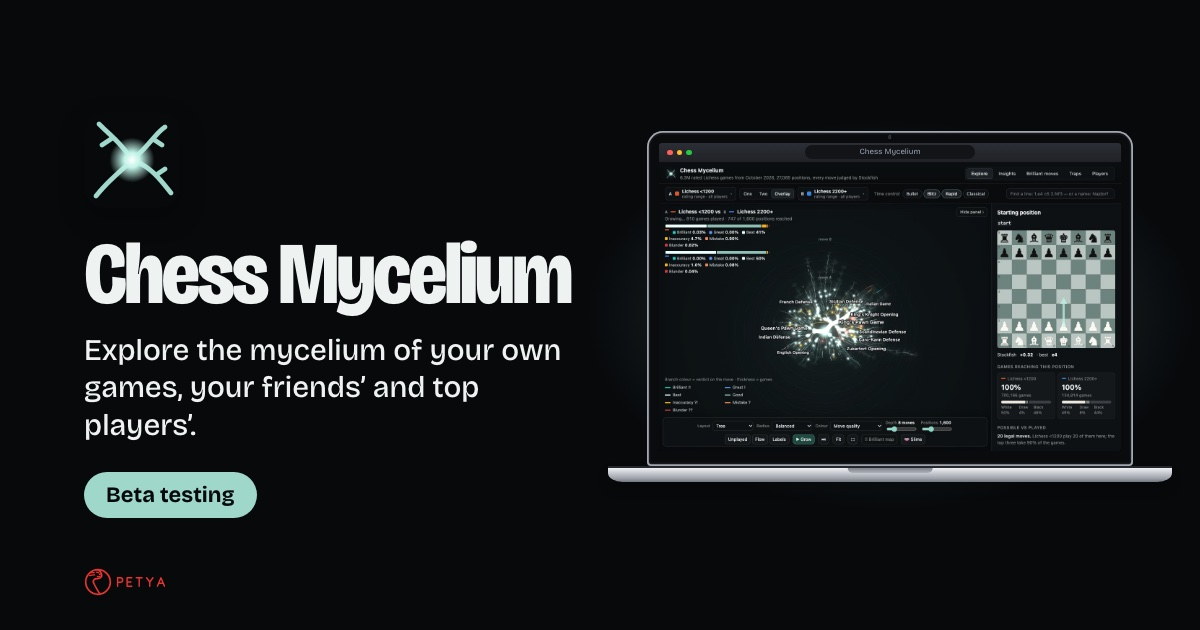
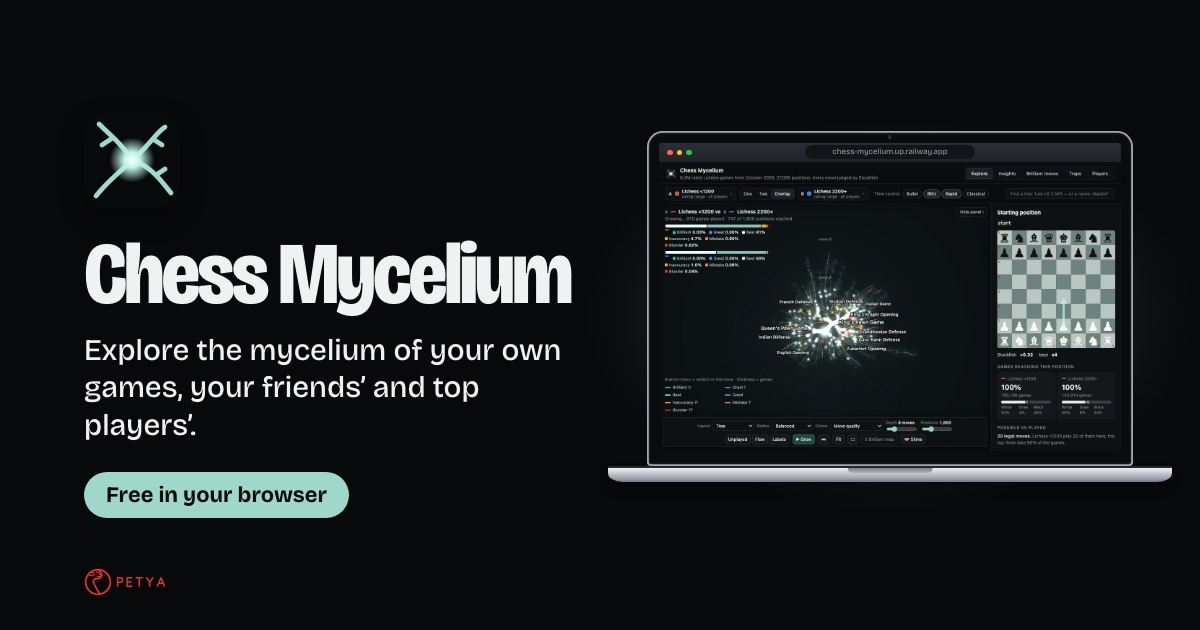
Shelf layout for browser games, hearts everywhere, Chess Mycelium live
- Browser games are now separate store-style cards on a grid shelf
- "On your iPhone" / "On your computer" shelf headings
- Like buttons on every game, home and game pages
- Pocket Cosmo: now available worldwide (badge + note)
- Chess Mycelium is public: Open button, URL, share card restored

diff --git a/index.html b/index.html
@@ -23,7 +23,7 @@
 <link rel="preconnect" href="https://fonts.googleapis.com">
 <link rel="preconnect" href="https://fonts.gstatic.com" crossorigin>
 <link rel="stylesheet" href="https://fonts.googleapis.com/css2?family=Bricolage+Grotesque:opsz,wdth,wght@12..96,75..100,400..800&display=swap">
-<link rel="stylesheet" href="/assets/site.css?v=ac8dccbfa4">
+<link rel="stylesheet" href="/assets/site.css?v=b26a6030a0">
 <script>(() => {
   const query = new URLSearchParams(location.search);
   const off = query.has("notrack");
@@ -53,7 +53,8 @@
     <p class="intro__line">We make small games and simulations.</p>
   </header>
   <main class="wrap">
-    <section class="library" aria-label="Games and simulations">
+    <h2 class="shelf-title" id="phone-title">On your iPhone</h2>
+    <section class="library" aria-labelledby="phone-title">
       <article class="tile" style="--accent: #ff4d8d">
         <a class="tile__link" href="/games/drift-survivors/">
           <div class="tile__stage"><div class="phone-wrap" data-home-of="drift-survivors"><div class="phone" data-game="drift-survivors" style="view-transition-name: phone-drift-survivors"><div class="phone__screen"><video data-loop muted playsinline loop preload="metadata" poster="/media/drift-survivors/poster.jpg?v=1bc68dae90" data-still="/media/drift-survivors/still.jpg?v=3c9d468c40" aria-hidden="true"><source src="/media/drift-survivors/loop-480.mp4?v=72d700cffd" type="video/mp4"></video></div></div></div></div>
@@ -68,7 +69,7 @@
           <h2 class="tile__title">Pocket Cosmo</h2>
           <p class="tile__line">A little dust. A little time. A universe of your own.</p>
         </a>
-        <div class="tile__foot"><button class="like" type="button" data-like="pocket-cosmo" data-name="Pocket Cosmo" aria-pressed="false" aria-label="Like Pocket Cosmo"><svg class="like__heart" viewBox="0 0 24 24" aria-hidden="true"><path d="M12 20.6l-1.3-1.2C5.9 15.1 3 12.4 3 8.9 3 6.1 5.2 3.9 8 3.9c1.6 0 3.1.7 4 1.9.9-1.2 2.4-1.9 4-1.9 2.8 0 5 2.2 5 5 0 3.5-2.9 6.2-7.7 10.5L12 20.6z"/></svg><span class="like__count">Like</span></button></div>
+        <div class="tile__foot"><button class="like" type="button" data-like="pocket-cosmo" data-name="Pocket Cosmo" aria-pressed="false" aria-label="Like Pocket Cosmo"><svg class="like__heart" viewBox="0 0 24 24" aria-hidden="true"><path d="M12 20.6l-1.3-1.2C5.9 15.1 3 12.4 3 8.9 3 6.1 5.2 3.9 8 3.9c1.6 0 3.1.7 4 1.9.9-1.2 2.4-1.9 4-1.9 2.8 0 5 2.2 5 5 0 3.5-2.9 6.2-7.7 10.5L12 20.6z"/></svg><span class="like__count">Like</span></button><span class="tile__badge tile__badge--new">Now worldwide</span></div>
       </article>
       <article class="tile" style="--accent: #d9532f">
         <a class="tile__link" href="/games/pocket-metropolis/">
@@ -80,37 +81,36 @@
       </article>
     </section>
     <section class="desk" aria-labelledby="desk-title">
-      <h2 class="desk__title" id="desk-title">On your computer</h2>
-      <article class="feature" style="--bg: #121216; --ink: #f4efe4; --soft: #b9b3a6; --accent: #ffd21f">
-        <a class="feature__stage" href="/games/leti-maneken/" tabindex="-1" aria-hidden="true"><div class="laptop-wrap"><div class="laptop"><div class="laptop__lid"><div class="laptop__screen"><div class="browser__bar" aria-hidden="true"><span class="browser__dots"><i></i><i></i><i></i></span><span class="browser__url">Fly, Dummy!</span></div><div class="browser__screen"><video data-loop muted playsinline loop preload="metadata" poster="/media/leti-maneken/poster.jpg?v=24b5f2eda1" data-still="/media/leti-maneken/still.jpg?v=86de783e93" aria-hidden="true"><source src="/media/leti-maneken/loop-1280.mp4?v=fd7f697d98" type="video/mp4"></video></div></div></div><div class="laptop__base"></div></div></div></a>
-        <div class="feature__text">
-          <img class="feature__icon" src="/media/leti-maneken/icon.webp?v=d17b16fcb8" width="56" height="56" alt="">
-          <h3 class="feature__title"><a href="/games/leti-maneken/">Fly, Dummy!</a></h3>
-          <p class="feature__line">Floor it, pick your angle and launch a crash-test dummy through the windscreen. Fourteen stunts, friends take turns.</p>
-          <div class="feature__actions"><a class="open-web" href="https://game-production-5b38f1e8.up.railway.app/" data-event="open-web" data-game="leti-maneken">Open Fly, Dummy!<svg viewBox="0 0 24 24" aria-hidden="true" focusable="false"><path d="M7 17 17 7M9 7h8v8"/></svg></a></div>
-          <p class="feature__note">Free, in your browser. In Russian. Best with a gamepad and friends.</p>
-        </div>
-      </article>
-      <article class="feature" style="--bg: #07080d; --ink: #ece8df; --soft: #b9b4a8; --accent: #e8c77a">
-        <a class="feature__stage" href="/games/etymon/" tabindex="-1" aria-hidden="true"><div class="laptop-wrap"><div class="laptop"><div class="laptop__lid"><div class="laptop__screen"><div class="browser__bar" aria-hidden="true"><span class="browser__dots"><i></i><i></i><i></i></span><span class="browser__url">petya.games/etymon</span></div><div class="browser__screen"><video data-loop muted playsinline loop preload="metadata" poster="/media/etymon/poster.jpg?v=f26e87d27b" data-still="/media/etymon/still.jpg?v=1f428250ea" aria-hidden="true"><source src="/media/etymon/loop-1280.mp4?v=61badbacb2" type="video/mp4"></video></div></div></div><div class="laptop__base"></div></div></div></a>
-        <div class="feature__text">
-          <img class="feature__icon" src="/media/etymon/icon.webp?v=12d10c0370" width="56" height="56" alt="">
-          <h3 class="feature__title"><a href="/games/etymon/">Etymon</a></h3>
-          <p class="feature__line">Follow any word back six thousand years, and watch 190 languages trade words on one globe.</p>
-          <div class="feature__actions"><a class="open-web" href="https://petya.games/etymon/" data-event="open-web" data-game="etymon">Open Etymon<svg viewBox="0 0 24 24" aria-hidden="true" focusable="false"><path d="M7 17 17 7M9 7h8v8"/></svg></a></div>
-          <p class="feature__note">Free, in your browser. Best on a computer.</p>
-        </div>
-      </article>
-      <article class="feature" style="--bg: #07090b; --ink: #eef3f1; --soft: #a3b5b0; --accent: #9fd8cb">
-        <a class="feature__stage" href="/games/chess-mycelium/" tabindex="-1" aria-hidden="true"><div class="laptop-wrap"><div class="laptop"><div class="laptop__lid"><div class="laptop__screen"><div class="browser__bar" aria-hidden="true"><span class="browser__dots"><i></i><i></i><i></i></span><span class="browser__url">Chess Mycelium</span></div><div class="browser__screen"><video data-loop muted playsinline loop preload="metadata" poster="/media/chess-mycelium/poster.jpg?v=232186a459" data-still="/media/chess-mycelium/still.jpg?v=3d48bbb2ff" aria-hidden="true"><source src="/media/chess-mycelium/loop-1280.mp4?v=06bb615168" type="video/mp4"></video></div></div></div><div class="laptop__base"></div></div></div></a>
-        <div class="feature__text">
-          <img class="feature__icon" src="/media/chess-mycelium/icon.webp?v=b7d57a5b0b" width="56" height="56" alt="">
-          <h3 class="feature__title"><a href="/games/chess-mycelium/">Chess Mycelium</a></h3>
-          <p class="feature__line">Explore the mycelium of your own games, your friends’ and top players’.</p>
-          <div class="feature__actions"><p class="soon">Beta testing</p><button class="like like--big" type="button" data-like="chess-mycelium" data-name="Chess Mycelium" aria-pressed="false" aria-label="Like Chess Mycelium"><svg class="like__heart" viewBox="0 0 24 24" aria-hidden="true"><path d="M12 20.6l-1.3-1.2C5.9 15.1 3 12.4 3 8.9 3 6.1 5.2 3.9 8 3.9c1.6 0 3.1.7 4 1.9.9-1.2 2.4-1.9 4-1.9 2.8 0 5 2.2 5 5 0 3.5-2.9 6.2-7.7 10.5L12 20.6z"/></svg><span class="like__count">Like</span></button></div>
-          <p class="feature__note">Made for a computer. Free, in your browser.</p>
-        </div>
-      </article>
+      <h2 class="shelf-title" id="desk-title">On your computer</h2>
+      <div class="desk__shelf">
+        <article class="feature" style="--bg: #121216; --ink: #f4efe4; --soft: #b9b3a6; --accent: #ffd21f">
+          <a class="feature__stage" href="/games/leti-maneken/" tabindex="-1" aria-hidden="true"><div class="laptop-wrap"><div class="laptop"><div class="laptop__lid"><div class="laptop__screen"><div class="browser__bar" aria-hidden="true"><span class="browser__dots"><i></i><i></i><i></i></span><span class="browser__url">Fly, Dummy!</span></div><div class="browser__screen"><video data-loop muted playsinline loop preload="metadata" poster="/media/leti-maneken/poster.jpg?v=24b5f2eda1" data-still="/media/leti-maneken/still.jpg?v=86de783e93" aria-hidden="true"><source src="/media/leti-maneken/loop-1280.mp4?v=fd7f697d98" type="video/mp4"></video></div></div></div><div class="laptop__base"></div></div></div></a>
+          <div class="feature__text">
+            <div class="feature__head"><img class="feature__icon" src="/media/leti-maneken/icon.webp?v=d17b16fcb8" width="44" height="44" alt=""><h3 class="feature__title"><a href="/games/leti-maneken/">Fly, Dummy!</a></h3></div>
+            <p class="feature__line">Floor it, pick your angle and launch a crash-test dummy through the windscreen. Fourteen stunts, friends take turns.</p>
+            <p class="feature__note">Free, in your browser. In Russian. Best with a gamepad and friends.</p>
+            <div class="feature__actions"><a class="open-web" href="https://game-production-5b38f1e8.up.railway.app/" data-event="open-web" data-game="leti-maneken" aria-label="Open Fly, Dummy!">Open<svg viewBox="0 0 24 24" aria-hidden="true" focusable="false"><path d="M7 17 17 7M9 7h8v8"/></svg></a><button class="like like--big" type="button" data-like="leti-maneken" data-name="Fly, Dummy!" aria-pressed="false" aria-label="Like Fly, Dummy!"><svg class="like__heart" viewBox="0 0 24 24" aria-hidden="true"><path d="M12 20.6l-1.3-1.2C5.9 15.1 3 12.4 3 8.9 3 6.1 5.2 3.9 8 3.9c1.6 0 3.1.7 4 1.9.9-1.2 2.4-1.9 4-1.9 2.8 0 5 2.2 5 5 0 3.5-2.9 6.2-7.7 10.5L12 20.6z"/></svg><span class="like__count">Like</span></button></div>
+          </div>
+        </article>
+        <article class="feature" style="--bg: #07080d; --ink: #ece8df; --soft: #b9b4a8; --accent: #e8c77a">
+          <a class="feature__stage" href="/games/etymon/" tabindex="-1" aria-hidden="true"><div class="laptop-wrap"><div class="laptop"><div class="laptop__lid"><div class="laptop__screen"><div class="browser__bar" aria-hidden="true"><span class="browser__dots"><i></i><i></i><i></i></span><span class="browser__url">petya.games/etymon</span></div><div class="browser__screen"><video data-loop muted playsinline loop preload="metadata" poster="/media/etymon/poster.jpg?v=f26e87d27b" data-still="/media/etymon/still.jpg?v=1f428250ea" aria-hidden="true"><source src="/media/etymon/loop-1280.mp4?v=61badbacb2" type="video/mp4"></video></div></div></div><div class="laptop__base"></div></div></div></a>
+          <div class="feature__text">
+            <div class="feature__head"><img class="feature__icon" src="/media/etymon/icon.webp?v=12d10c0370" width="44" height="44" alt=""><h3 class="feature__title"><a href="/games/etymon/">Etymon</a></h3></div>
+            <p class="feature__line">Follow any word back six thousand years, and watch 190 languages trade words on one globe.</p>
+            <p class="feature__note">Free, in your browser. Best on a computer.</p>
+            <div class="feature__actions"><a class="open-web" href="https://petya.games/etymon/" data-event="open-web" data-game="etymon" aria-label="Open Etymon">Open<svg viewBox="0 0 24 24" aria-hidden="true" focusable="false"><path d="M7 17 17 7M9 7h8v8"/></svg></a><button class="like like--big" type="button" data-like="etymon" data-name="Etymon" aria-pressed="false" aria-label="Like Etymon"><svg class="like__heart" viewBox="0 0 24 24" aria-hidden="true"><path d="M12 20.6l-1.3-1.2C5.9 15.1 3 12.4 3 8.9 3 6.1 5.2 3.9 8 3.9c1.6 0 3.1.7 4 1.9.9-1.2 2.4-1.9 4-1.9 2.8 0 5 2.2 5 5 0 3.5-2.9 6.2-7.7 10.5L12 20.6z"/></svg><span class="like__count">Like</span></button></div>
+          </div>
+        </article>
+        <article class="feature" style="--bg: #07090b; --ink: #eef3f1; --soft: #a3b5b0; --accent: #9fd8cb">
+          <a class="feature__stage" href="/games/chess-mycelium/" tabindex="-1" aria-hidden="true"><div class="laptop-wrap"><div class="laptop"><div class="laptop__lid"><div class="laptop__screen"><div class="browser__bar" aria-hidden="true"><span class="browser__dots"><i></i><i></i><i></i></span><span class="browser__url">chess-mycelium.up.railway.app</span></div><div class="browser__screen"><video data-loop muted playsinline loop preload="metadata" poster="/media/chess-mycelium/poster.jpg?v=232186a459" data-still="/media/chess-mycelium/still.jpg?v=3d48bbb2ff" aria-hidden="true"><source src="/media/chess-mycelium/loop-1280.mp4?v=06bb615168" type="video/mp4"></video></div></div></div><div class="laptop__base"></div></div></div></a>
+          <div class="feature__text">
+            <div class="feature__head"><img class="feature__icon" src="/media/chess-mycelium/icon.webp?v=b7d57a5b0b" width="44" height="44" alt=""><h3 class="feature__title"><a href="/games/chess-mycelium/">Chess Mycelium</a></h3></div>
+            <p class="feature__line">Explore the mycelium of your own games, your friends’ and top players’.</p>
+            <p class="feature__note">Made for a computer. Free, in your browser.</p>
+            <div class="feature__actions"><a class="open-web" href="https://chess-mycelium.up.railway.app/" data-event="open-web" data-game="chess-mycelium" aria-label="Open Chess Mycelium">Open<svg viewBox="0 0 24 24" aria-hidden="true" focusable="false"><path d="M7 17 17 7M9 7h8v8"/></svg></a><button class="like like--big" type="button" data-like="chess-mycelium" data-name="Chess Mycelium" aria-pressed="false" aria-label="Like Chess Mycelium"><svg class="like__heart" viewBox="0 0 24 24" aria-hidden="true"><path d="M12 20.6l-1.3-1.2C5.9 15.1 3 12.4 3 8.9 3 6.1 5.2 3.9 8 3.9c1.6 0 3.1.7 4 1.9.9-1.2 2.4-1.9 4-1.9 2.8 0 5 2.2 5 5 0 3.5-2.9 6.2-7.7 10.5L12 20.6z"/></svg><span class="like__count">Like</span></button></div>
+          </div>
+        </article>
+      </div>
     </section>
   </main>
   <footer>
@@ -208,7 +208,7 @@
           <a class="store-badge" href="https://apps.apple.com/app/apple-store/id6810904381?pt=127670757&ct=petya.games&mt=8" data-event="app-store-click" data-game="pocket-cosmo"><img src="https://toolbox.marketingtools.apple.com/api/v2/badges/download-on-the-app-store/black/en-us" width="135" height="45" alt="Download Pocket Cosmo on the App Store"></a>
           <button class="like like--big" type="button" data-like="pocket-cosmo" data-name="Pocket Cosmo" aria-pressed="false" aria-label="Like Pocket Cosmo"><svg class="like__heart" viewBox="0 0 24 24" aria-hidden="true"><path d="M12 20.6l-1.3-1.2C5.9 15.1 3 12.4 3 8.9 3 6.1 5.2 3.9 8 3.9c1.6 0 3.1.7 4 1.9.9-1.2 2.4-1.9 4-1.9 2.8 0 5 2.2 5 5 0 3.5-2.9 6.2-7.7 10.5L12 20.6z"/></svg><span class="like__count">Like</span></button>
         </div>
-        <p class="game__note">Free on iPhone. Available in select countries for now.</p>
+        <p class="game__note">Free on iPhone, all over the world.</p>
       </div>
       <div class="game__phones">
         <div class="phone-wrap phone-wrap--side phone-wrap--left"><div class="phone"><div class="phone__screen"><img src="/media/pocket-cosmo/shot-1.webp?v=cf0c390764" alt="" decoding="async"></div></div></div>

diff --git a/games/chess-mycelium/index.html b/games/chess-mycelium/index.html
@@ -12,18 +12,18 @@
 <meta property="og:title" content="Chess Mycelium: The Opening Tree of 6.3 Million Chess Games">
 <meta property="og:description" content="Watch the opening tree of 6.3 million Lichess games grow like a living mycelium, and see how beginners and strong players move through it differently. Free in your browser, made for a computer.">
 <meta property="og:url" content="https://petya.games/games/chess-mycelium/">
-<meta property="og:image" content="https://petya.games/media/chess-mycelium/share.jpg?v=a2c9e014cf">
+<meta property="og:image" content="https://petya.games/media/chess-mycelium/share.jpg?v=abffbff45f">
 <meta property="og:image:width" content="1200">
 <meta property="og:image:height" content="630">
 <meta property="og:image:alt" content="Chess Mycelium: Explore the mycelium of your own games, your friends’ and top players’.">
 <meta name="twitter:card" content="summary_large_image">
-<script type="application/ld+json">{"@context":"https://schema.org","@graph":[{"@type":"WebApplication","applicationCategory":"EducationalApplication","operatingSystem":"Any","browserRequirements":"Requires JavaScript","@id":"https://petya.games/games/chess-mycelium/#game","name":"Chess Mycelium","url":"https://petya.games/games/chess-mycelium/","description":"Watch the opening tree of 6.3 million Lichess games grow like a living mycelium, and see how beginners and strong players move through it differently. Free in your browser, made for a computer.","image":"https://petya.games/media/chess-mycelium/share.jpg?v=a2c9e014cf","genre":["Chess","Data visualization"],"author":{"@id":"https://petya.games/#org"},"publisher":{"@id":"https://petya.games/#org"},"offers":{"@type":"Offer","price":"0","priceCurrency":"USD"},"video":{"@type":"VideoObject","name":"Chess Mycelium in action","description":"Explore the mycelium of your own games, your friends’ and top players’.","thumbnailUrl":"https://petya.games/media/chess-mycelium/poster.jpg?v=232186a459","contentUrl":"https://petya.games/media/chess-mycelium/loop-1280.mp4?v=06bb615168","uploadDate":"2026-11-07T22:37:44.202Z","duration":"PT11S"}},{"@type":"Organization","@id":"https://petya.games/#org","name":"petya","url":"https://petya.games/","logo":"https://petya.games/assets/apple-touch-icon.png"},{"@type":"BreadcrumbList","itemListElement":[{"@type":"ListItem","position":1,"name":"petya","item":"https://petya.games/"},{"@type":"ListItem","position":2,"name":"Chess Mycelium","item":"https://petya.games/games/chess-mycelium/"}]}]}</script>
+<script type="application/ld+json">{"@context":"https://schema.org","@graph":[{"@type":"WebApplication","applicationCategory":"EducationalApplication","operatingSystem":"Any","browserRequirements":"Requires JavaScript","sameAs":["https://chess-mycelium.up.railway.app/"],"@id":"https://petya.games/games/chess-mycelium/#game","name":"Chess Mycelium","url":"https://petya.games/games/chess-mycelium/","description":"Watch the opening tree of 6.3 million Lichess games grow like a living mycelium, and see how beginners and strong players move through it differently. Free in your browser, made for a computer.","image":"https://petya.games/media/chess-mycelium/share.jpg?v=abffbff45f","genre":["Chess","Data visualization"],"author":{"@id":"https://petya.games/#org"},"publisher":{"@id":"https://petya.games/#org"},"offers":{"@type":"Offer","price":"0","priceCurrency":"USD"},"video":{"@type":"VideoObject","name":"Chess Mycelium in action","description":"Explore the mycelium of your own games, your friends’ and top players’.","thumbnailUrl":"https://petya.games/media/chess-mycelium/poster.jpg?v=232186a459","contentUrl":"https://petya.games/media/chess-mycelium/loop-1280.mp4?v=06bb615168","uploadDate":"2026-11-07T22:37:44.202Z","duration":"PT11S"}},{"@type":"Organization","@id":"https://petya.games/#org","name":"petya","url":"https://petya.games/","logo":"https://petya.games/assets/apple-touch-icon.png"},{"@type":"BreadcrumbList","itemListElement":[{"@type":"ListItem","position":1,"name":"petya","item":"https://petya.games/"},{"@type":"ListItem","position":2,"name":"Chess Mycelium","item":"https://petya.games/games/chess-mycelium/"}]}]}</script>
 <link rel="icon" href="/assets/favicon.svg" type="image/svg+xml">
 <link rel="apple-touch-icon" href="/assets/apple-touch-icon.png?v=f184091e75">
 <link rel="preconnect" href="https://fonts.googleapis.com">
 <link rel="preconnect" href="https://fonts.gstatic.com" crossorigin>
 <link rel="stylesheet" href="https://fonts.googleapis.com/css2?family=Bricolage+Grotesque:opsz,wdth,wght@12..96,75..100,400..800&display=swap">
-<link rel="stylesheet" href="/assets/site.css?v=ac8dccbfa4">
+<link rel="stylesheet" href="/assets/site.css?v=b26a6030a0">
 <link rel="preload" as="image" href="/media/chess-mycelium/poster.jpg?v=232186a459" fetchpriority="high">
 <script type="speculationrules">{"prerender":[{"where":{"href_matches":"/*"},"eagerness":"moderate"}]}</script>
 <script>(() => {
@@ -58,12 +58,12 @@
         <p class="game__tagline">Explore the mycelium of your own games, your friends’ and top players’.</p>
         <p class="game__about">Grows the opening tree of 6.3 million rated Lichess games, game by game, coloured by Stockfish&#39;s verdict on each move. Put beginners next to masters, or your own games next to Magnus Carlsen&#39;s, and find the brilliant moves and the traps people fall into.</p>
         <div class="game__actions">
-          <p class="soon">Beta testing</p>
+          <a class="open-web" href="https://chess-mycelium.up.railway.app/" data-event="open-web" data-game="chess-mycelium">Open Chess Mycelium<svg viewBox="0 0 24 24" aria-hidden="true" focusable="false"><path d="M7 17 17 7M9 7h8v8"/></svg></a>
           <button class="like like--big" type="button" data-like="chess-mycelium" data-name="Chess Mycelium" aria-pressed="false" aria-label="Like Chess Mycelium"><svg class="like__heart" viewBox="0 0 24 24" aria-hidden="true"><path d="M12 20.6l-1.3-1.2C5.9 15.1 3 12.4 3 8.9 3 6.1 5.2 3.9 8 3.9c1.6 0 3.1.7 4 1.9.9-1.2 2.4-1.9 4-1.9 2.8 0 5 2.2 5 5 0 3.5-2.9 6.2-7.7 10.5L12 20.6z"/></svg><span class="like__count">Like</span></button>
         </div>
         <p class="game__note">Made for a computer. Free, in your browser.</p>
       </div>
-      <div class="game__screens"><div class="laptop-wrap"><div class="laptop"><div class="laptop__lid"><div class="laptop__screen"><div class="browser__bar" aria-hidden="true"><span class="browser__dots"><i></i><i></i><i></i></span><span class="browser__url">Chess Mycelium</span></div><div class="browser__screen"><video data-loop muted playsinline loop preload="metadata" poster="/media/chess-mycelium/poster.jpg?v=232186a459" data-still="/media/chess-mycelium/still.jpg?v=3d48bbb2ff" aria-hidden="true"><source src="/media/chess-mycelium/loop-1280.mp4?v=06bb615168" type="video/mp4"></video></div></div></div><div class="laptop__base"></div></div></div></div>
+      <div class="game__screens"><div class="laptop-wrap"><div class="laptop"><div class="laptop__lid"><div class="laptop__screen"><div class="browser__bar" aria-hidden="true"><span class="browser__dots"><i></i><i></i><i></i></span><span class="browser__url">chess-mycelium.up.railway.app</span></div><div class="browser__screen"><video data-loop muted playsinline loop preload="metadata" poster="/media/chess-mycelium/poster.jpg?v=232186a459" data-still="/media/chess-mycelium/still.jpg?v=3d48bbb2ff" aria-hidden="true"><source src="/media/chess-mycelium/loop-1280.mp4?v=06bb615168" type="video/mp4"></video></div></div></div><div class="laptop__base"></div></div></div></div>
     </section>
     <nav class="more" aria-labelledby="more-title-chess-mycelium">
       <h2 class="more__title" id="more-title-chess-mycelium">More games</h2>

diff --git a/assets/site.css b/assets/site.css
@@ -112,6 +112,15 @@ a.tile__link:hover .tile__title { text-decoration: underline; }
 .tile__foot:empty { display: none; }
 
 .tile__badge { color: var(--ink-2); font-size: 14px; font-weight: 600; }
+/* news about a game (a wider release): a pill in its accent */
+.tile__badge--new {
+  padding: 6px 11px;
+  border-radius: 99px;
+  background: color-mix(in srgb, var(--accent) 30%, transparent);
+  color: var(--ink);
+  font-size: 13px;
+  line-height: 1;
+}
 
 /* An item with no clip yet: a dashed slot the size of a phone, with a small branching drawing in it */
 .slot {
@@ -536,35 +545,54 @@ body.game {
   object-fit: cover;
 }
 
-/* ---------- On your computer (library): web items, apart from the phone games, in their own colours ---------- */
+/* ---------- Shelves (library): a heading over each kind, phone games first, then things for a computer ---------- */
+
+.shelf-title { margin: 0 0 clamp(16px, 2.6vw, 26px); font-size: clamp(22px, 2.4vw, 28px); font-weight: 700; letter-spacing: -0.01em; }
+
+/* ---------- On your computer (library): web items as a shelf of cards, each in its own colours ---------- */
+/* Cards fill rows of up to three and wrap into new rows as games are added, like boxes on a shop's shelves */
 
 .desk { padding-bottom: clamp(48px, 8vw, 96px); }
-.desk__title { margin: 0 0 clamp(16px, 2.6vw, 26px); font-size: clamp(22px, 2.4vw, 28px); font-weight: 700; letter-spacing: -0.01em; }
+.desk__shelf {
+  display: grid;
+  grid-template-columns: repeat(auto-fill, minmax(min(100%, 300px), 1fr));
+  gap: clamp(20px, 2.6vw, 32px);
+}
 
 .feature {
-  display: grid;
-  gap: clamp(22px, 3vw, 44px);
-  padding: clamp(16px, 3.4vw, 44px);
-  border-radius: clamp(22px, 2.6vw, 34px);
+  display: flex;
+  flex-direction: column;
+  border-radius: clamp(20px, 2.2vw, 28px);
   background: var(--bg);
   color: var(--ink);
-  box-shadow: 0 28px 60px -28px color-mix(in srgb, var(--accent) 55%, transparent);
+  box-shadow: 0 22px 44px -26px color-mix(in srgb, var(--accent) 60%, transparent);
+  transition: transform 0.25s, box-shadow 0.25s;
 }
-@media (min-width: 900px) {
-  .feature { grid-template-columns: minmax(0, 1.75fr) minmax(0, 1fr); align-items: center; }
+@media (hover: hover) {
+  .feature:hover { transform: translateY(-4px); box-shadow: 0 30px 56px -24px color-mix(in srgb, var(--accent) 75%, transparent); }
 }
-.feature__stage { display: block; }
+/* the laptop stands on a soft light in the card's accent */
+.feature__stage {
+  display: block;
+  padding: clamp(18px, 2.4vw, 26px) clamp(14px, 1.8vw, 20px) clamp(8px, 1.2vw, 12px);
+  border-radius: inherit;
+  background: radial-gradient(75% 65% at 50% 45%, color-mix(in srgb, var(--accent) 20%, transparent), transparent 72%);
+}
 .feature .laptop { --glow: color-mix(in srgb, var(--accent) 45%, transparent); }
-.feature__text { padding-inline: clamp(4px, 1vw, 8px); }
-.feature__icon { display: block; width: 56px; height: 56px; border-radius: 22%; }
-.feature__title { margin: 16px 0 0; font-size: clamp(32px, 3.8vw, 46px); font-weight: 800; font-stretch: 85%; letter-spacing: -0.03em; line-height: 1; }
+.feature__text { display: flex; flex: 1; flex-direction: column; padding: 8px clamp(16px, 2vw, 22px) clamp(18px, 2.2vw, 22px); }
+.feature__head { display: flex; align-items: center; gap: 12px; }
+.feature__icon { display: block; flex: none; width: 44px; height: 44px; border-radius: 22%; }
+.feature__title { margin: 0; font-size: clamp(22px, 2vw, 26px); font-weight: 800; font-stretch: 85%; letter-spacing: -0.02em; line-height: 1.05; }
 .feature__title a { text-decoration: none; }
 @media (hover: hover) {
   .feature__title a:hover { text-decoration: underline; }
 }
-.feature__line { margin: 12px 0 0; font-size: clamp(17px, 1.7vw, 19px); line-height: 1.35; }
-.feature__actions { display: flex; flex-wrap: wrap; align-items: center; gap: 12px 14px; margin-top: 24px; }
-.feature__note { margin: 12px 0 0; color: var(--soft); font-size: 14.5px; }
+.feature__line { margin: 12px 0 0; font-size: 15.5px; line-height: 1.4; }
+.feature__note { margin: 8px 0 0; color: var(--soft); font-size: 13.5px; line-height: 1.35; }
+/* buttons sit on the card's floor, so a row of cards lines them up */
+.feature__actions { display: flex; flex-wrap: wrap; align-items: center; gap: 10px; margin-top: auto; padding-top: 18px; }
+.feature .open-web { min-height: 44px; padding: 0 16px 0 18px; font-size: 15.5px; }
+.feature .like--big { height: 44px; }
 
 /* ---------- Company structure (bottom of the library) ---------- */
 

diff --git a/games/leti-maneken/index.html b/games/leti-maneken/index.html
@@ -23,7 +23,7 @@
 <link rel="preconnect" href="https://fonts.googleapis.com">
 <link rel="preconnect" href="https://fonts.gstatic.com" crossorigin>
 <link rel="stylesheet" href="https://fonts.googleapis.com/css2?family=Bricolage+Grotesque:opsz,wdth,wght@12..96,75..100,400..800&display=swap">
-<link rel="stylesheet" href="/assets/site.css?v=ac8dccbfa4">
+<link rel="stylesheet" href="/assets/site.css?v=b26a6030a0">
 <link rel="preload" as="image" href="/media/leti-maneken/poster.jpg?v=24b5f2eda1" fetchpriority="high">
 <script type="speculationrules">{"prerender":[{"where":{"href_matches":"/*"},"eagerness":"moderate"}]}</script>
 <script>(() => {
@@ -59,7 +59,7 @@
         <p class="game__about">A party game for one screen or an online room. Drive the run-up, dodge the drums, hold the button for the angle and let go: the dummy leaves through the windscreen, and from there you steer him in the air. Fourteen events to get through: distance, height, darts on a board the size of a tower block, a wall of playing cards, bowling, curling, hockey and more. Five cars to pick from and a garage to dress them up in. Play with a gamepad, a keyboard, or a phone held sideways.</p>
         <div class="game__actions">
           <a class="open-web" href="https://game-production-5b38f1e8.up.railway.app/" data-event="open-web" data-game="leti-maneken">Open Fly, Dummy!<svg viewBox="0 0 24 24" aria-hidden="true" focusable="false"><path d="M7 17 17 7M9 7h8v8"/></svg></a>
-          
+          <button class="like like--big" type="button" data-like="leti-maneken" data-name="Fly, Dummy!" aria-pressed="false" aria-label="Like Fly, Dummy!"><svg class="like__heart" viewBox="0 0 24 24" aria-hidden="true"><path d="M12 20.6l-1.3-1.2C5.9 15.1 3 12.4 3 8.9 3 6.1 5.2 3.9 8 3.9c1.6 0 3.1.7 4 1.9.9-1.2 2.4-1.9 4-1.9 2.8 0 5 2.2 5 5 0 3.5-2.9 6.2-7.7 10.5L12 20.6z"/></svg><span class="like__count">Like</span></button>
         </div>
         <p class="game__note">Free, in your browser. In Russian. Best with a gamepad and friends.</p>
       </div>

diff --git a/games/pocket-cosmo/index.html b/games/pocket-cosmo/index.html
@@ -23,7 +23,7 @@
 <link rel="preconnect" href="https://fonts.googleapis.com">
 <link rel="preconnect" href="https://fonts.gstatic.com" crossorigin>
 <link rel="stylesheet" href="https://fonts.googleapis.com/css2?family=Bricolage+Grotesque:opsz,wdth,wght@12..96,75..100,400..800&display=swap">
-<link rel="stylesheet" href="/assets/site.css?v=ac8dccbfa4">
+<link rel="stylesheet" href="/assets/site.css?v=b26a6030a0">
 <meta name="apple-itunes-app" content="app-id=6810904381">
 <link rel="preload" as="image" href="/media/pocket-cosmo/poster.jpg?v=812ef1b26a" fetchpriority="high">
 <script type="speculationrules">{"prerender":[{"where":{"href_matches":"/*"},"eagerness":"moderate"}]}</script>
@@ -62,7 +62,7 @@
           <a class="store-badge" href="https://apps.apple.com/app/apple-store/id6810904381?pt=127670757&ct=petya.games&mt=8" data-event="app-store-click" data-game="pocket-cosmo"><img src="https://toolbox.marketingtools.apple.com/api/v2/badges/download-on-the-app-store/black/en-us" width="135" height="45" alt="Download Pocket Cosmo on the App Store"></a>
           <button class="like like--big" type="button" data-like="pocket-cosmo" data-name="Pocket Cosmo" aria-pressed="false" aria-label="Like Pocket Cosmo"><svg class="like__heart" viewBox="0 0 24 24" aria-hidden="true"><path d="M12 20.6l-1.3-1.2C5.9 15.1 3 12.4 3 8.9 3 6.1 5.2 3.9 8 3.9c1.6 0 3.1.7 4 1.9.9-1.2 2.4-1.9 4-1.9 2.8 0 5 2.2 5 5 0 3.5-2.9 6.2-7.7 10.5L12 20.6z"/></svg><span class="like__count">Like</span></button>
         </div>
-        <p class="game__note">Free on iPhone. Available in select countries for now.</p>
+        <p class="game__note">Free on iPhone, all over the world.</p>
       </div>
       <div class="game__phones">
         <div class="phone-wrap phone-wrap--side phone-wrap--left"><div class="phone"><div class="phone__screen"><img src="/media/pocket-cosmo/shot-1.webp?v=cf0c390764" alt="" decoding="async"></div></div></div>

diff --git a/games/etymon/index.html b/games/etymon/index.html
@@ -23,7 +23,7 @@
 <link rel="preconnect" href="https://fonts.googleapis.com">
 <link rel="preconnect" href="https://fonts.gstatic.com" crossorigin>
 <link rel="stylesheet" href="https://fonts.googleapis.com/css2?family=Bricolage+Grotesque:opsz,wdth,wght@12..96,75..100,400..800&display=swap">
-<link rel="stylesheet" href="/assets/site.css?v=ac8dccbfa4">
+<link rel="stylesheet" href="/assets/site.css?v=b26a6030a0">
 <link rel="preload" as="image" href="/media/etymon/poster.jpg?v=f26e87d27b" fetchpriority="high">
 <script type="speculationrules">{"prerender":[{"where":{"href_matches":"/*"},"eagerness":"moderate"}]}</script>
 <script>(() => {
@@ -59,7 +59,7 @@
         <p class="game__about">Every dot is a word and every line a step it took from an older word. Etymon reads Wiktionary and draws where English and Russian words came from: one word&#39;s family tree, a map of six thousand years, and a globe where each language is a flower and borrowed words arc between them. Count the spellings and the family tree of languages rebuilds itself. Count first letters and Grimm&#39;s law appears.</p>
         <div class="game__actions">
           <a class="open-web" href="https://petya.games/etymon/" data-event="open-web" data-game="etymon">Open Etymon<svg viewBox="0 0 24 24" aria-hidden="true" focusable="false"><path d="M7 17 17 7M9 7h8v8"/></svg></a>
-          
+          <button class="like like--big" type="button" data-like="etymon" data-name="Etymon" aria-pressed="false" aria-label="Like Etymon"><svg class="like__heart" viewBox="0 0 24 24" aria-hidden="true"><path d="M12 20.6l-1.3-1.2C5.9 15.1 3 12.4 3 8.9 3 6.1 5.2 3.9 8 3.9c1.6 0 3.1.7 4 1.9.9-1.2 2.4-1.9 4-1.9 2.8 0 5 2.2 5 5 0 3.5-2.9 6.2-7.7 10.5L12 20.6z"/></svg><span class="like__count">Like</span></button>
         </div>
         <p class="game__note">Free, in your browser. Best on a computer.</p>
       </div>

diff --git a/games/drift-survivors/index.html b/games/drift-survivors/index.html
@@ -23,7 +23,7 @@
 <link rel="preconnect" href="https://fonts.googleapis.com">
 <link rel="preconnect" href="https://fonts.gstatic.com" crossorigin>
 <link rel="stylesheet" href="https://fonts.googleapis.com/css2?family=Bricolage+Grotesque:opsz,wdth,wght@12..96,75..100,400..800&display=swap">
-<link rel="stylesheet" href="/assets/site.css?v=ac8dccbfa4">
+<link rel="stylesheet" href="/assets/site.css?v=b26a6030a0">
 <meta name="apple-itunes-app" content="app-id=6773509783">
 <link rel="preload" as="image" href="/media/drift-survivors/poster.jpg?v=1bc68dae90" fetchpriority="high">
 <script type="speculationrules">{"prerender":[{"where":{"href_matches":"/*"},"eagerness":"moderate"}]}</script>

diff --git a/games/pocket-metropolis/index.html b/games/pocket-metropolis/index.html
@@ -23,7 +23,7 @@
 <link rel="preconnect" href="https://fonts.googleapis.com">
 <link rel="preconnect" href="https://fonts.gstatic.com" crossorigin>
 <link rel="stylesheet" href="https://fonts.googleapis.com/css2?family=Bricolage+Grotesque:opsz,wdth,wght@12..96,75..100,400..800&display=swap">
-<link rel="stylesheet" href="/assets/site.css?v=ac8dccbfa4">
+<link rel="stylesheet" href="/assets/site.css?v=b26a6030a0">
 <link rel="preload" as="image" href="/media/pocket-metropolis/poster.jpg?v=4ec2d1fac0" fetchpriority="high">
 <script type="speculationrules">{"prerender":[{"where":{"href_matches":"/*"},"eagerness":"moderate"}]}</script>
 <script>(() => {

diff --git a/404.html b/404.html
@@ -12,7 +12,7 @@
 <link rel="preconnect" href="https://fonts.googleapis.com">
 <link rel="preconnect" href="https://fonts.gstatic.com" crossorigin>
 <link rel="stylesheet" href="https://fonts.googleapis.com/css2?family=Bricolage+Grotesque:opsz,wdth,wght@12..96,75..100,400..800&display=swap">
-<link rel="stylesheet" href="/assets/site.css?v=ac8dccbfa4">
+<link rel="stylesheet" href="/assets/site.css?v=b26a6030a0">
 <script>(() => {
   const query = new URLSearchParams(location.search);
   const off = query.has("notrack");
